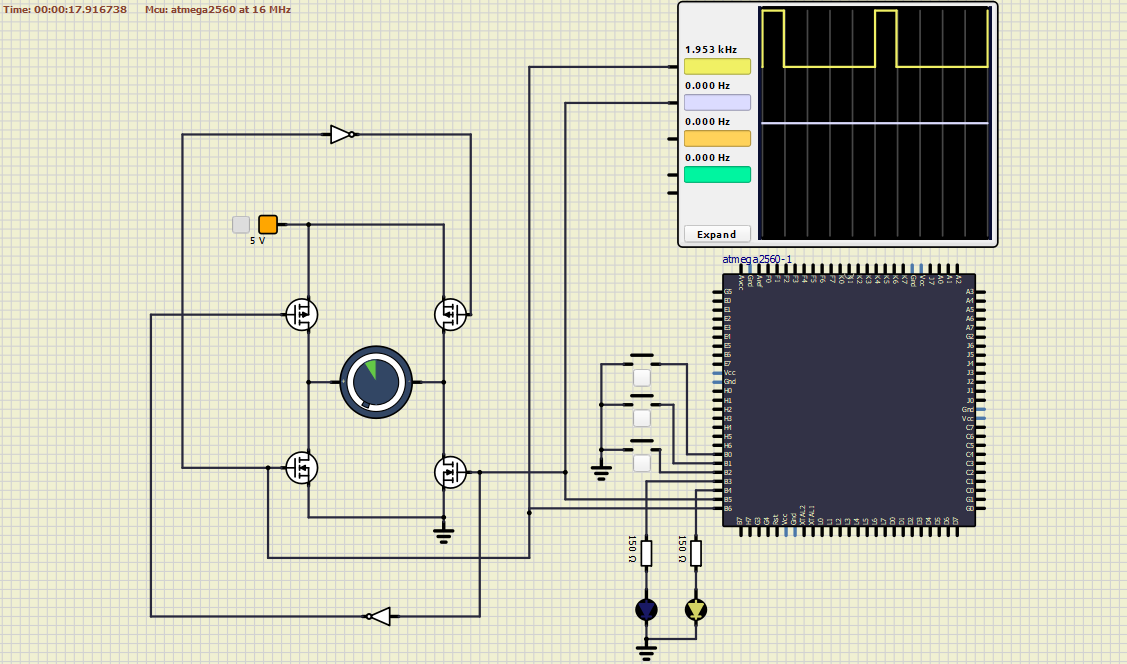
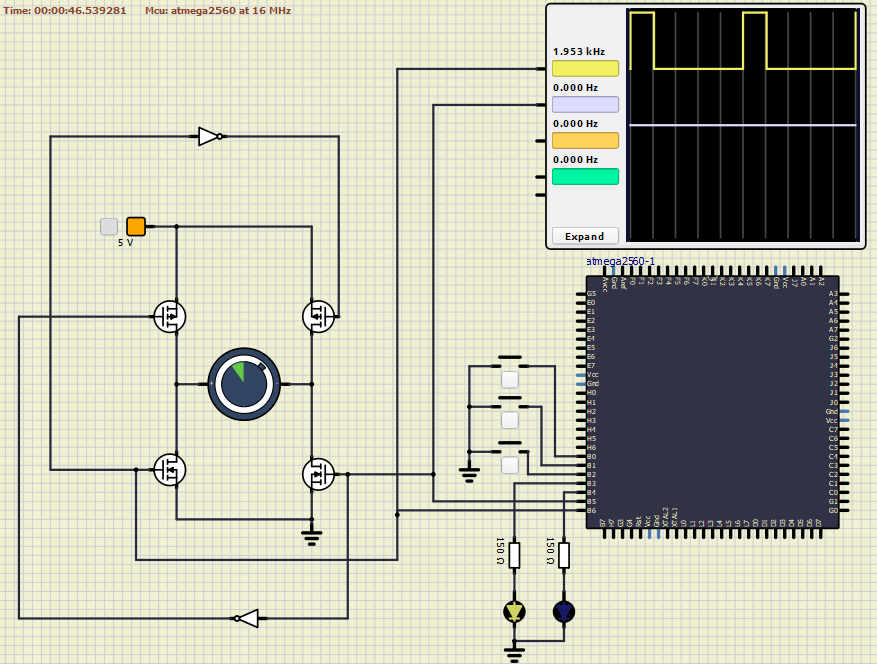
Modifications with advanced C concepts

diff --git a/main.c b/main.c
@@ -23,26 +23,40 @@ volatile uint8_t* MEM_PINB = (uint8_t*) (0x23);
 volatile uint8_t count = 0;
 volatile uint8_t direct = RIGHT;
 
-inline uint16_t dutyToCount(uint8_t duty)
+//Union created to avoid shift (>>) operations
+typedef union 
 {
-	uint16_t res = 0;
-	res = ((TOP_VAL / 100.0)) * duty;
-	return res;
+	uint16_t FULLREG;
+	
+	struct 
+	{
+		uint8_t LOWREG;	
+		uint8_t HIGHREG;
+	};
+} DUTYTOCOUNTREG;
+
+inline void dutyToCount(uint8_t duty, DUTYTOCOUNTREG* res)
+{
+	(*res).FULLREG = ((TOP_VAL / 100.0)) * duty;
 }
 
 inline void updateDuty(uint8_t duty)
 {
+	DUTYTOCOUNTREG res;
+	
+	dutyToCount(duty, &res);
+	
 	if(duty <= 100)
 	{
 		switch(direct)
 		{
 			case RIGHT:
-				OCR1AL = (duty > 0) ? dutyToCount(duty) : 0;
-				OCR1AH = (duty > 0) ? dutyToCount(duty) >> 8 : 0;
+				OCR1AL = (duty > 0) ? res.LOWREG : 0;
+				OCR1AH = (duty > 0) ? res.HIGHREG : 0;
 				break;
 			case LEFT:
-				OCR1BL = (duty > 0) ? dutyToCount(duty) : 0;
-				OCR1BH = (duty > 0) ? dutyToCount(duty) >> 8 : 0;
+				OCR1BL = (duty > 0) ? res.LOWREG : 0;
+				OCR1BH = (duty > 0) ? res.HIGHREG : 0;
 				break;
 			default:
 				break;
@@ -67,7 +81,7 @@ inline void stopPWMTimer()
 	TCNT1H = 0x00; //Reset count value
 	TCNT1L = 0x00; //Reset count value
 	updateDuty(0); //Reset PWM duty
-	_delay_ms(1); //Delay needed to reset permit the clear on compare match operation
+	_delay_ms(1); //Delay needed to permit the reaching of the clear on compare match operation
 	TCCR1B &= 0x00; //Prescaler = 0; stop timer
 	TCCR1A &= 0x00;
 	TIMSK1 &= 0x00; //Disable timer interrupts
@@ -99,23 +113,29 @@ ISR(PCINT0_vect)
 		
 		stopPWMTimer();
 		direct = TOGGLE(direct);
-		
 		startPWMTimer();
 	}
 	
 	*(MEM_PORTB) &= 0b01100111;
-	*(MEM_PORTB) |= (direct == RIGHT) ? 0b00001000 : 0b00010000;
+	*(MEM_PORTB) |= (direct == RIGHT) ?  0b00010000 : 0b00001000;
 }
 
 int main()
 {
+	//Array of function pointers used to call the two functions.
+	void (*fncPoint[2]) () = {&initButtonsINT, &startPWMTimer};
+	
 	*(MEM_PORTB) |= 0b00000111; //Enable pull-up resistors on PB0, PB1, PB2
 	*(MEM_DDRB) |= 0b00011000; //PB3 and PB4 enabled as output
 	
-	initButtonsINT();
-	startPWMTimer();
+	fncPoint[0]();
+	fncPoint[1]();
 	
-	*(MEM_PORTB) |= (direct == RIGHT) ? 0b00001000 : 0b00010000; //Initialize first rotation signalization LED
+	//Previous is the same as:
+	//initButtonsINT();
+	//startPWMTimer();
+	
+	*(MEM_PORTB) |= (direct == RIGHT) ? 0b00010000 : 0b00001000; //Initialize first rotation signalization LED
 	
 	sei();
 	
